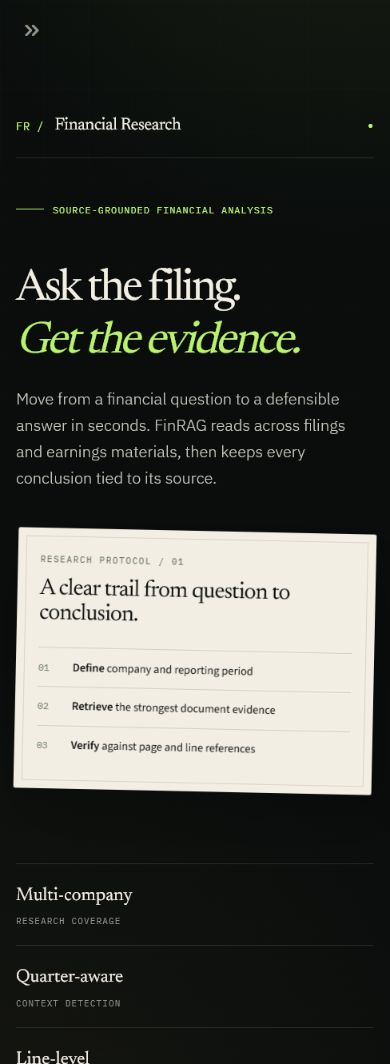
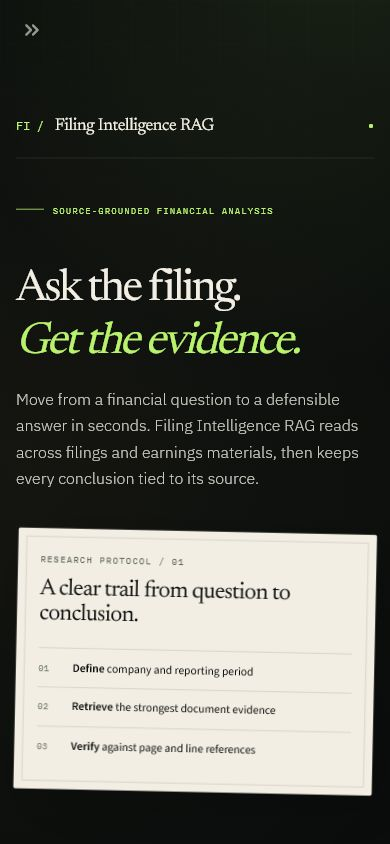
Refresh Filing Intelligence RAG release evidence

diff --git a/tasks/todo.md b/tasks/todo.md
@@ -7,8 +7,8 @@
 - [x] Inventory repository, documentation, product branding, Cloud Run services, images, and shared-resource boundaries.
 - [x] Rename only the standalone GitHub repository and retarget this checkout's origin and push safeguard.
 - [x] Replace active portfolio branding and deployment targets with `Filing Intelligence RAG`, `filing-intelligence-rag`, and `filing-intelligence-rag-api` while preserving compatibility identifiers and application behavior.
-- [ ] Run the complete local release gate, commit, push, deploy isolated services, and verify CI and live behavior.
-- [ ] Remove only superseded standalone `finrag-research*` services/images after the Filing Intelligence RAG deployment passes; verify the shared repository and services remain untouched.
+- [x] Run the complete local release gate, commit, push, deploy isolated services, and verify CI and live behavior.
+- [x] Remove only superseded standalone `finrag-research*` services/images after the Filing Intelligence RAG deployment passes; verify the shared repository and services remain untouched.
 
 ### Acceptance criteria
 
@@ -17,6 +17,17 @@
 - Shared `Financial-RAG`, `finrag-frontend`, and `finrag-backend` resources receive no writes or configuration changes.
 - Documentation contains only the current Filing Intelligence RAG deployment links and regenerated Filing Intelligence RAG screenshots.
 - Local checks, GitHub Actions, Cloud Build, live smoke tests, PDF citation rendering, and local/remote commit parity all pass.
+
+### Implementation review
+
+- Renamed the private, parentless standalone repository to `ARJUNVARMA2000/filing-intelligence-rag`, updated its homepage, and retargeted this checkout's sole fetch/push remote and allowlist hook.
+- Rebranded the product and deployment targets as Filing Intelligence RAG while preserving the existing `FIN_RAG_*` environment contract, shared IAM identities, Artifact Registry repository, document bucket, data, and application behavior.
+- Local Ruff lint/format, compilation, YAML parsing, `git diff --check`, and all 54 tests pass; GitHub Actions also passed on the release commit.
+- Cloud Build `548f6169-2aff-4cfb-99ed-a63fe54751f3` deployed `filing-intelligence-rag-00001-hql` and `filing-intelligence-rag-api-00001-n6c` with 100% traffic and correctly paired frontend/backend URLs.
+- Live smoke verification found 4,967 indexed chunks and streamed the 597,845-byte representative source PDF. Browser QA returned NVIDIA Q3 2026 revenue of $57.0 billion, opened page 10, rendered five non-zero canvases, produced nine highlight elements, kept the native fallback hidden, and reported no console or Cloud Run errors.
+- Regenerated the desktop and 390 px mobile product screenshots with Filing Intelligence RAG branding and no horizontal overflow.
+- Deleted only the superseded standalone `finrag-research`/`finrag-research-api` services and image packages. The cancelled Sourcebound build created no services or packages.
+- Rechecked the shared boundary after cleanup: `Financial-RAG` main remained `3603f3e6`, `finrag-backend` remained generation 13 on `finrag-backend-00011-tbc`, and `finrag-frontend` remained generation 12 with 100% traffic on `finrag-frontend-00001-thc`.
 
 ## Portfolio product rebrand - 2026-07-17
 
